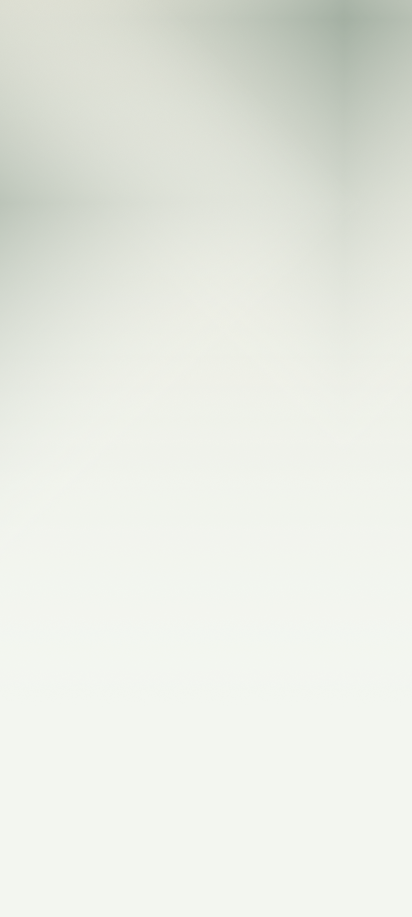
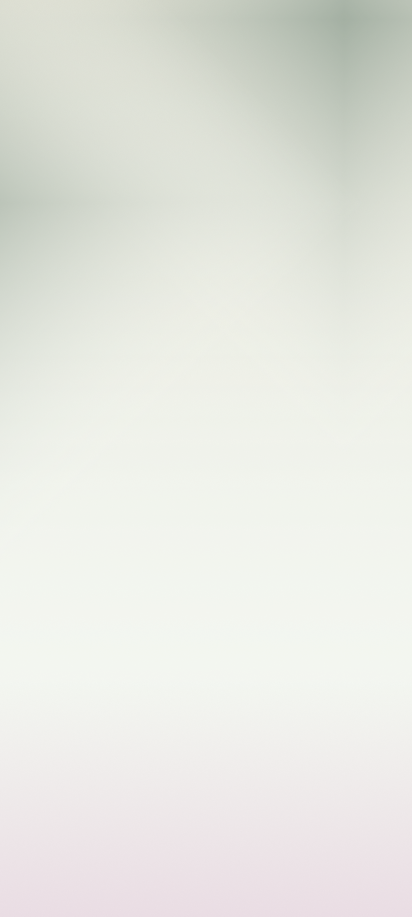
Changed some details and made the navbar

Changed region(s): [[0.0, 0.9771, 1.0, 1.0]]

diff --git a/src/layout/Theme.jsx b/src/layout/Theme.jsx
@@ -6,7 +6,9 @@ import { useSariAuthStore } from "../data/sariAuthStore"
 const pageList = [
   { path: '/', title: 'Home', icon: 'fi-rr-home' },
   { path: '/insights', title: 'Insights', icon: 'fi-rr-chart-histogram' },
-  { path: '/chatbot', title: 'Chatbot', icon: 'fi-rr-robot' },
+  { path: '/measure', title: 'Measure', icon: 'fi-rr-camera-viewfinder' },
+  { path: '/profile', title: 'Profile', icon: 'fi-rr-user' },
+  { path: '/chatbot', title: 'Chatbot', icon: 'fi-rr-beacon' },
 ]
 
 function Theme() {
@@ -30,14 +32,13 @@ function Theme() {
         <Outlet/>
       </main>
       <nav className="absolute bottom-0 left-0 w-full p-4">
-        <ul className="border-4 border-th-green-dark bg-th-plain-white flex">
-          {pageList.map(({path, title, icon}) => (
+        <ul className="border-4 border-th-green-dark/20 bg-th-plain-white flex justify-between p-1.5 w-full rounded-3xl">
+          {pageList.map(({path, icon}, index) => (
             <li key={path} className="flex-1">
               <NavLink to={path} className={({ isActive }) => `
-                w-full flex flex-col gap-1 items-center justify-center ${isActive ? 'text-th-green-dark' : 'text-th-green'}
+                flex flex-col gap-1 items-center justify-center size-16 rounded-3xl ${index == 2 ? 'text-th-plain-white bg-th-green-dark' : 'text-th-green-dark bg-th-plain-white'} ${isActive ? 'text-th-green-darker shadow-th-green-dark/20 shadow-lg' : 'text-th-green-dark'}
               `}>
-                <i className={`fi ${icon}`} aria-hidden='true'></i>
-                <span className="text-sm">{title}</span>
+                <i className={`fi ${icon} text-2xl/[90%]`} aria-hidden='true'></i>
               </NavLink>
             </li>
           ))}

diff --git a/src/pages/Home.jsx b/src/pages/Home.jsx
@@ -26,15 +26,15 @@ function Home() {
             {/* INFO DIV */}
             <div className="flex w-full gap-8">
               <div className="flex-1 flex flex-col gap-3">
-                <p className="text-xs/[90%]"><span className="text-2xl/[90%] font-medium font-cabinet">72</span>bpm</p>
+                <p className="text-xs/[90%] text-th-plain-grey flex items-center gap-1"><span className="text-2xl/[90%] text-th-plain-black font-medium font-cabinet">72</span>bpm</p>
                 <p className="text-lg/[90%]">Average</p>
               </div>
               <div className="flex-1 flex flex-col gap-3">
-                <p className="text-xs/[90%]"><span className="text-2xl/[90%] font-medium font-cabinet">112</span>bpm</p>
+                <p className="text-xs/[90%] text-th-plain-grey flex items-center gap-1"><span className="text-2xl/[90%] text-th-plain-black font-medium font-cabinet">112</span>bpm</p>
                 <p className="text-lg/[90%]">Peak</p>
               </div>
               <div className="flex-1 flex flex-col gap-3">
-                <p className="text-xs/[90%]"><span className="text-2xl/[90%] font-medium font-cabinet">60</span>bpm</p>
+                <p className="text-xs/[90%] text-th-plain-grey flex items-center gap-1"><span className="text-2xl/[90%] text-th-plain-black font-medium font-cabinet">60</span>bpm</p>
                 <p className="text-lg/[90%]">Resting</p>
               </div>
             </div>

diff --git a/src/router/router.jsx b/src/router/router.jsx
@@ -6,6 +6,7 @@ import Chatbot from "../pages/Chatbot";
 import AuthLayout from "../layout/AuthLayout";
 import SignIn from "../pages/auth/SignIn";
 import Profile from "../pages/Profile";
+import Camera from "../pages/Camera";
 
 export const router = createBrowserRouter([
   {
@@ -23,6 +24,7 @@ export const router = createBrowserRouter([
       { path: 'insights', element: <Insights/> },
       { path: 'chatbot', element: <Chatbot/> },
       { path: 'profile', element: <Profile/> },
+      { path: 'measure', element: <Camera/> },
     ],
   },
 ])

diff --git a/index.html b/index.html
@@ -7,7 +7,7 @@
     <title>sanubari-app</title>
   </head>
   <body>
-    <div id="root" class="mx-auto w-103 relative h-screen flex flex-col bg-th-plain-white font-general bg-[url('/src/assets/images/bg-main-gradient.png')] bg-cover bg-fixed"></div>
+    <div id="root" class="mx-auto w-103 relative h-screen flex flex-col bg-th-plain-white font-general bg-[url('/src/assets/images/bg-main-gradient.png')] bg-[length:100%_100%] bg-fixed"></div>
     <script type="module" src="/src/main.jsx"></script>
   </body>
 </html>

diff --git a/src/index.css b/src/index.css
@@ -15,6 +15,7 @@
   --font-general: 'General Sans', sans-serif;
   --color-th-plain-white: #f3f6f0;
   --color-th-plain-black: #1c2929;
+  --color-th-plain-grey: #d8d8d8;
   --color-th-green-darker: #25373d;
   --color-th-green-dark: #9eb5af;
   --color-th-green-light: #b8cbc7;

diff --git a/src/pages/Camera.jsx b/src/pages/Camera.jsx
@@ -1,0 +1,8 @@
+
+function Camera() {
+  return (
+    <div>Camera</div>
+  )
+}
+
+export default Camera
